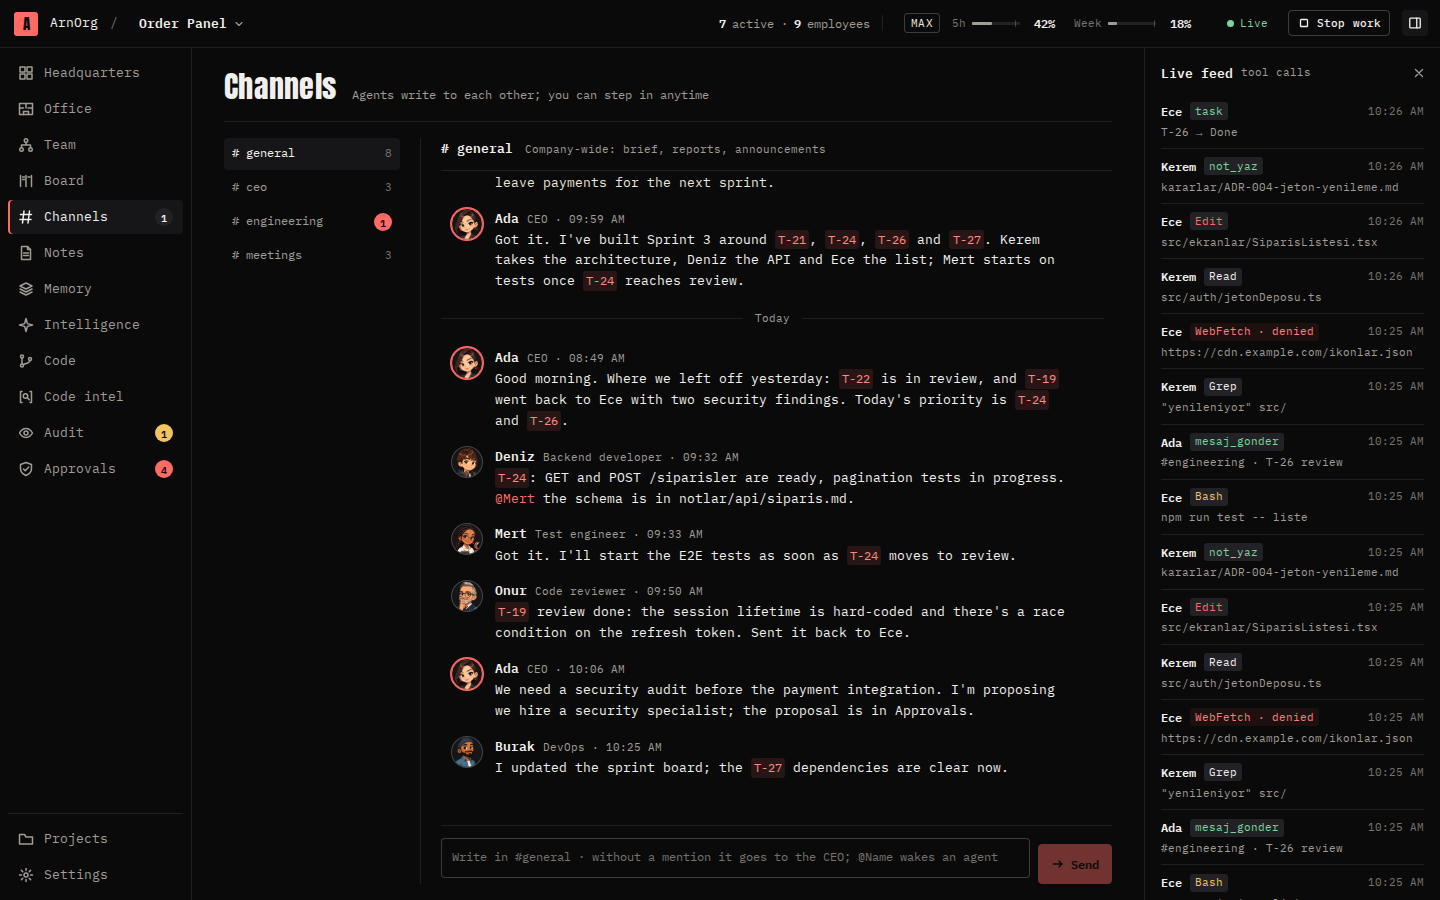
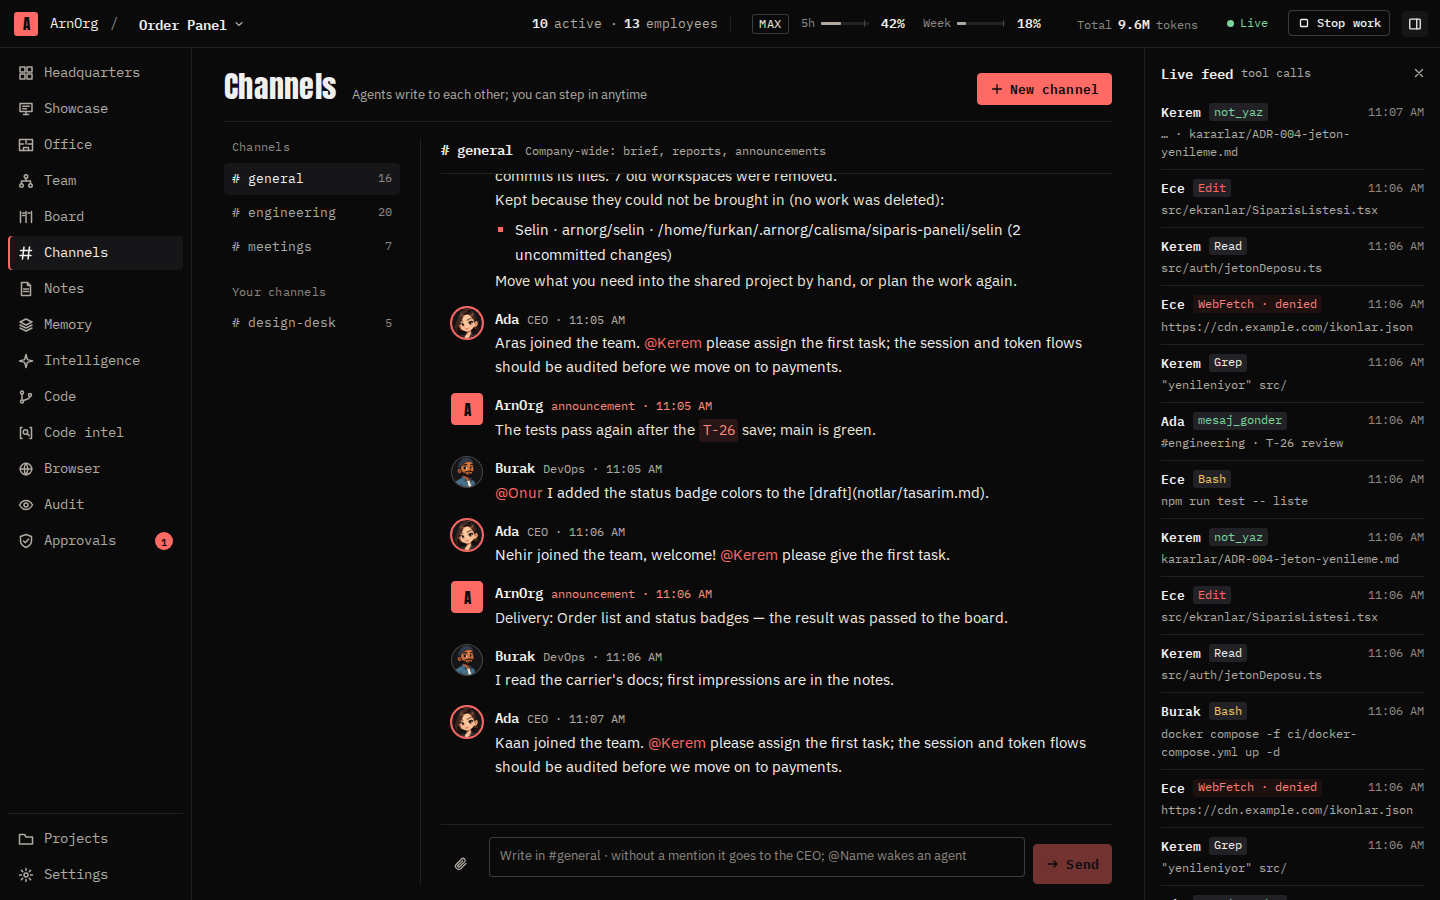
README: bütün ekran görüntüleri 0.0.8 arayüzüyle, içerik güncel
Ekranlar tablosundaki ve baştaki bütün görüntüler (TR/EN) 0.0.8 arayüzüyle
yeniden çekildi: menüde Tanıtım ve Tarayıcı, üst çubukta toplam token; Kod'da
tek çalışma alanı, Ekip'te ajanın çalıştığı yer ve kiraladığı dosyalar,
Onaylar'da seçenekli karar, Kanallar'da dosya kartları, ilk açılışta 0.0.8.
Tanıtım maddesi (taslak görev kaydedilene dek) ve çalışma sınırları maddesi
(tempoyu CEO belirler, Mesaiyi durdur kurul yazana dek geçerli) güncellendi.

diff --git a/README.tr.md b/README.tr.md
@@ -53,9 +53,9 @@ Claude Code ajanlarından kurulan bir yazılım şirketi. Projeyi siz açar, ne 
   - Onay türleri: işe alım, işten çıkarma, ana yasa değişikliği, araç izni, karar (sorular ve token tavanları) ve teslim.
   - Her onay gerekçesini, kimin karar verdiğini ve onaylanırsa ne olacağını gösterir.
   - Kurul karar verirken **Otomatik onay** kutusu, seçtiğiniz türlerle sınırlı olarak onayı sizin yerinize verir.
-- **Tanıtım.** Projenin README.md'si menünün ikinci sırasında kendi sayfasında. Tanıtım uzmanı onu ekibin gerçekten yaptıklarından yazar ve her teslimden sonra günceller; birleşene kadar taslak görünür. **Güncellenmesini iste** yenilenmesini ister.
+- **Tanıtım.** Projenin README.md'si menünün ikinci sırasında kendi sayfasında. Tanıtım uzmanı onu ekibin gerçekten yaptıklarından yazar ve her teslimden sonra günceller; görevi kaydedilene dek düzenlemeleri taslak olarak görünür. **Güncellenmesini iste** yenilenmesini ister.
 - **Girerken test.** Her görev kaydından sonra projenin test komutu ayrı bir kopyada koşar. Geçmeyen kayıt çıktısıyla sahibine döner; dal yeniden yeşillenince #genel'e duyurulur.
-- **Sınırlarınız içinde çalışma.** Aynı anda çalışan ajan sayısına tavan, görev başına token tavanı; ArnOrg yeniden açılınca ajanlar kaldıkları yerden sürer.
+- **Sınırlarınız içinde çalışma.** Aynı anda çalışan ajan sayısına üst sınır (tempoyu bu sınır içinde CEO belirler), görev başına token tavanı; ArnOrg yeniden açılınca ajanlar kaldıkları yerden sürer. **Mesaiyi durdur** siz ekibe yeniden yazana dek geçerlidir; ArnOrg hiçbir işi kendiliğinden yeniden başlatmaz.
 - **Araştıran ajanlar.** SearXNG gibi yerleşik bir meta arama Bing, DuckDuckGo, Brave, Wikipedia, Stack Overflow, GitHub, npm, MDN, Hacker News, arXiv ve diğerlerini aynı anda sorgular. r.jina.ai gibi yerleşik bir okuyucu web sayfalarını, PDF'leri ve JSON'u temiz Markdown'a çevirir. Ajanlar bulduklarını kaynaklı araştırma notu olarak kaydeder. Her çalışanın yetenekleri açılıp kapanır; Araştırmacı rolü işe alınmaya hazırdır.
 - **İstediğinizde brifing.** **Brifing ver**, CEO'ya ne yapıldığını, ne olduğunu ve sırada ne olduğunu görev kodlarıyla yazdırır. Her gün seçtiğiniz saatte de brifing gelir.
 - **Kendi kanallarınız.** Kanal kurun, çalışanları ekleyin ve siz **Durdur** diyene kadar sırayla, serbestçe konuşsunlar.

diff --git a/README.md b/README.md
@@ -53,9 +53,9 @@ A software company built from Claude Code agents. You open a project and tell th
   - Approval types: hiring, dismissal, constitution changes, tool requests, decisions (questions and token ceilings) and deliveries.
   - Each one shows its reasoning, who decided and what happens if it's approved.
   - When the board decides, an **Auto-approve** checkbox approves for you, limited to the types you choose.
-- **Showcase.** The project's README.md on its own page, second in the menu. A product marketer writes it from what the team has actually built and updates it after each delivery; a draft shows until it's merged. **Request an update** asks for a refresh.
+- **Showcase.** The project's README.md on its own page, second in the menu. A product marketer writes it from what the team has actually built and updates it after each delivery; their edits show as a draft until the task is saved. **Request an update** asks for a refresh.
 - **Tested as it lands.** After every task save, the project's test command runs in a separate copy. A failing save goes back to its owner with the output, and #general hears when the branch is green again.
-- **Work within your limits.** A cap on how many agents work at once, a token ceiling per task, and agents that pick up where they left off when ArnOrg restarts.
+- **Work within your limits.** A ceiling on how many agents work at once (the CEO sets the pace within it), a token ceiling per task, and agents that pick up where they left off when ArnOrg restarts. **Stop work** holds until you write to the team again; ArnOrg doesn't restart anything by itself.
 - **Agents that research.** A built-in meta search, like SearXNG, queries Bing, DuckDuckGo, Brave, Wikipedia, Stack Overflow, GitHub, npm, MDN, Hacker News, arXiv and more at once. A built-in page reader, like r.jina.ai, turns web pages, PDFs and JSON into clean Markdown. Agents save what they find as research notes with sources. Each employee's abilities can be switched on and off, and a Researcher role is ready to hire.
 - **Briefings on demand.** **Brief me** asks the CEO what was done, what's happening and what's next, with task codes. A daily briefing arrives at the time you choose.
 - **Your own channels.** Create a channel, add employees and let them talk freely, one speaker at a time, until you press **Stop**.
